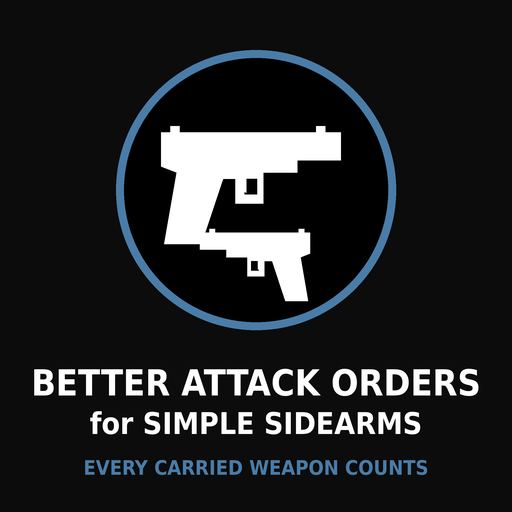
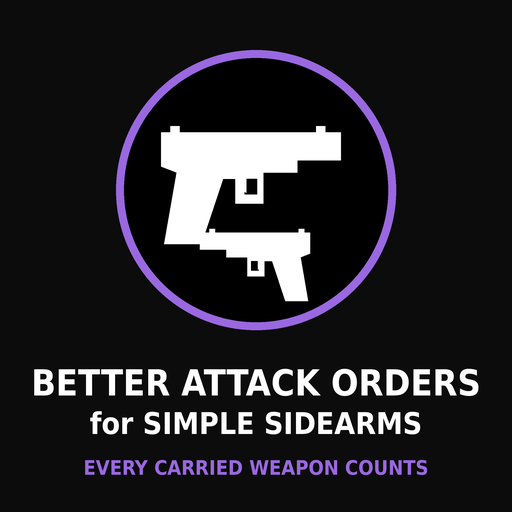
docs: BAO accent to violet; badge+preview under one committed generator
Steel blue sat next to Loadout Quality's teal and read as a washed-out
copy. Violet is the family's fifth distinct pole (olive/amber/red/teal/
violet). gen_preview.py folded into Media/badge_gen.py, which now emits
both the badge and the Workshop preview.

Claude-Session: https://claude.ai/code/session_01S7UhaiJhucrnfzBHvweEyL

diff --git a/Media/badge_gen.py b/Media/badge_gen.py
@@ -1,0 +1,106 @@
+#!/usr/bin/env python3
+"""BAO badge + Workshop preview.
+
+Same geometry system as the CE+SS suite badges (300x100 circle + full-width bar
++ ring knockout; 512 preview) so the family reads as one set. Identity: VIOLET
+accent — deliberately far from teal (Loadout Quality), amber (Loadouts), olive
+(Patch) and red (Tactics); steel blue was tried first and read as a washed-out
+teal. Art is self-drawn pistols, never CE-derived: this is a Simple Sidearms
+mod with no CE dependency.
+
+Run from Media/: python3 badge_gen.py
+"""
+import os
+from PIL import Image, ImageDraw, ImageFont
+
+HERE = os.path.dirname(os.path.abspath(__file__))
+FONT = "/usr/share/fonts/dejavu-sans-fonts/DejaVuSansCondensed-Bold.ttf"
+BLACK = (0, 0, 0, 255)
+WHITE = (255, 255, 255, 255)
+VIOLET = (154, 104, 224, 255)
+
+
+def pistol(d, ox, oy, s, flip=False):
+    """Semi-auto pistol silhouette pointing right; ox,oy = top-left of slide."""
+    def P(pts):
+        out = []
+        for x, y in pts:
+            if flip:
+                x = 60 - x
+            out.append((ox + x * s, oy + y * s))
+        return out
+    body = [(0, 4), (3, 4), (3, 2), (6, 2), (6, 4), (50, 4), (50, 2), (53, 2),
+            (53, 4), (58, 4), (58, 13), (44, 13), (44, 17), (33, 17), (33, 27),
+            (24, 27), (24, 19), (20, 19), (13, 40), (1, 40), (5, 17), (0, 15)]
+    d.polygon(P(body), fill=WHITE)
+    d.polygon(P([(27, 19), (31, 19), (31, 24), (27, 24)]), fill=BLACK)
+    d.polygon(P([(25.5, 19), (27.5, 19), (27.5, 23.5), (25.5, 22.5)]), fill=WHITE)
+
+
+def render_badge():
+    S = 4
+    W, H = 300 * S, 100 * S
+    bar = Image.new("RGBA", (W, H), (0, 0, 0, 0))
+    db = ImageDraw.Draw(bar)
+    db.rectangle([0, 25 * S, 300 * S, 74 * S], fill=BLACK)
+    hole = Image.new("L", (W, H), 0)
+    dh = ImageDraw.Draw(hole)
+    cx, cy, r, gap = 50 * S, 50 * S, 50 * S, 5 * S
+    dh.ellipse([cx - (r + gap), cy - (r + gap), cx + (r + gap), cy + (r + gap)], fill=255)
+    dh.rectangle([0, 0, 5 * S, H], fill=255)
+    bar.putalpha(Image.composite(Image.new("L", (W, H), 0), bar.getchannel("A"), hole))
+
+    img = Image.new("RGBA", (W, H), (0, 0, 0, 0))
+    img.alpha_composite(bar)
+    d = ImageDraw.Draw(img)
+    d.ellipse([cx - r, cy - r, cx + r, cy + r], fill=BLACK)
+    d.ellipse([cx - r, cy - r, cx + r, cy + r], outline=VIOLET, width=3 * S)
+    pistol(d, 21 * S, 22 * S, 0.95 * S)
+    pistol(d, 33 * S, 62 * S, 0.55 * S, flip=True)
+
+    f1 = ImageFont.truetype(FONT, 14 * S)
+    f2 = ImageFont.truetype(FONT, 10 * S)
+    CX = 202 * S
+    t1 = "BETTER ATTACK ORDERS"
+    w1 = d.textlength(t1, font=f1)
+    d.text((CX - w1 / 2, 33 * S), t1, font=f1, fill=WHITE)
+    t2 = "for SIMPLE SIDEARMS"
+    K = 1.6 * S
+    w2 = sum(d.textlength(c, font=f2) + K for c in t2) - K
+    x = CX - w2 / 2
+    for ch in t2:
+        d.text((x, 55 * S), ch, font=f2, fill=VIOLET)
+        x += d.textlength(ch, font=f2) + K
+    img.resize((300, 100), Image.LANCZOS).save(os.path.join(HERE, "Badge_BAO.png"))
+    print("wrote Badge_BAO.png")
+
+
+def render_preview():
+    P = 4
+    W = H = 512 * P
+    img = Image.new("RGBA", (W, H), (12, 12, 12, 255))
+    d = ImageDraw.Draw(img)
+    cx, cy, r = 256 * P, 190 * P, 140 * P
+    d.ellipse([cx - r, cy - r, cx + r, cy + r], fill=BLACK, outline=VIOLET, width=8 * P)
+
+    # the deadlock pair: one in hand, one waiting
+    pistol(d, (256 - 95) * P, 120 * P, 3.1 * P)
+    pistol(d, (256 - 60) * P, 225 * P, 1.9 * P, flip=True)
+
+    f1 = ImageFont.truetype(FONT, 36 * P)
+    f2 = ImageFont.truetype(FONT, 30 * P)
+    f3 = ImageFont.truetype(FONT, 20 * P)
+    for text, font, y, color in [
+        ("BETTER ATTACK ORDERS", f1, 362 * P, WHITE),
+        ("for SIMPLE SIDEARMS", f2, 406 * P, WHITE),
+        ("EVERY CARRIED WEAPON COUNTS", f3, 456 * P, VIOLET),
+    ]:
+        w = d.textlength(text, font=font)
+        d.text(((W - w) / 2, y), text, font=font, fill=color)
+    img.resize((512, 512), Image.LANCZOS).save(os.path.join(HERE, "..", "About", "Preview.png"))
+    print("wrote About/Preview.png")
+
+
+if __name__ == "__main__":
+    render_badge()
+    render_preview()
